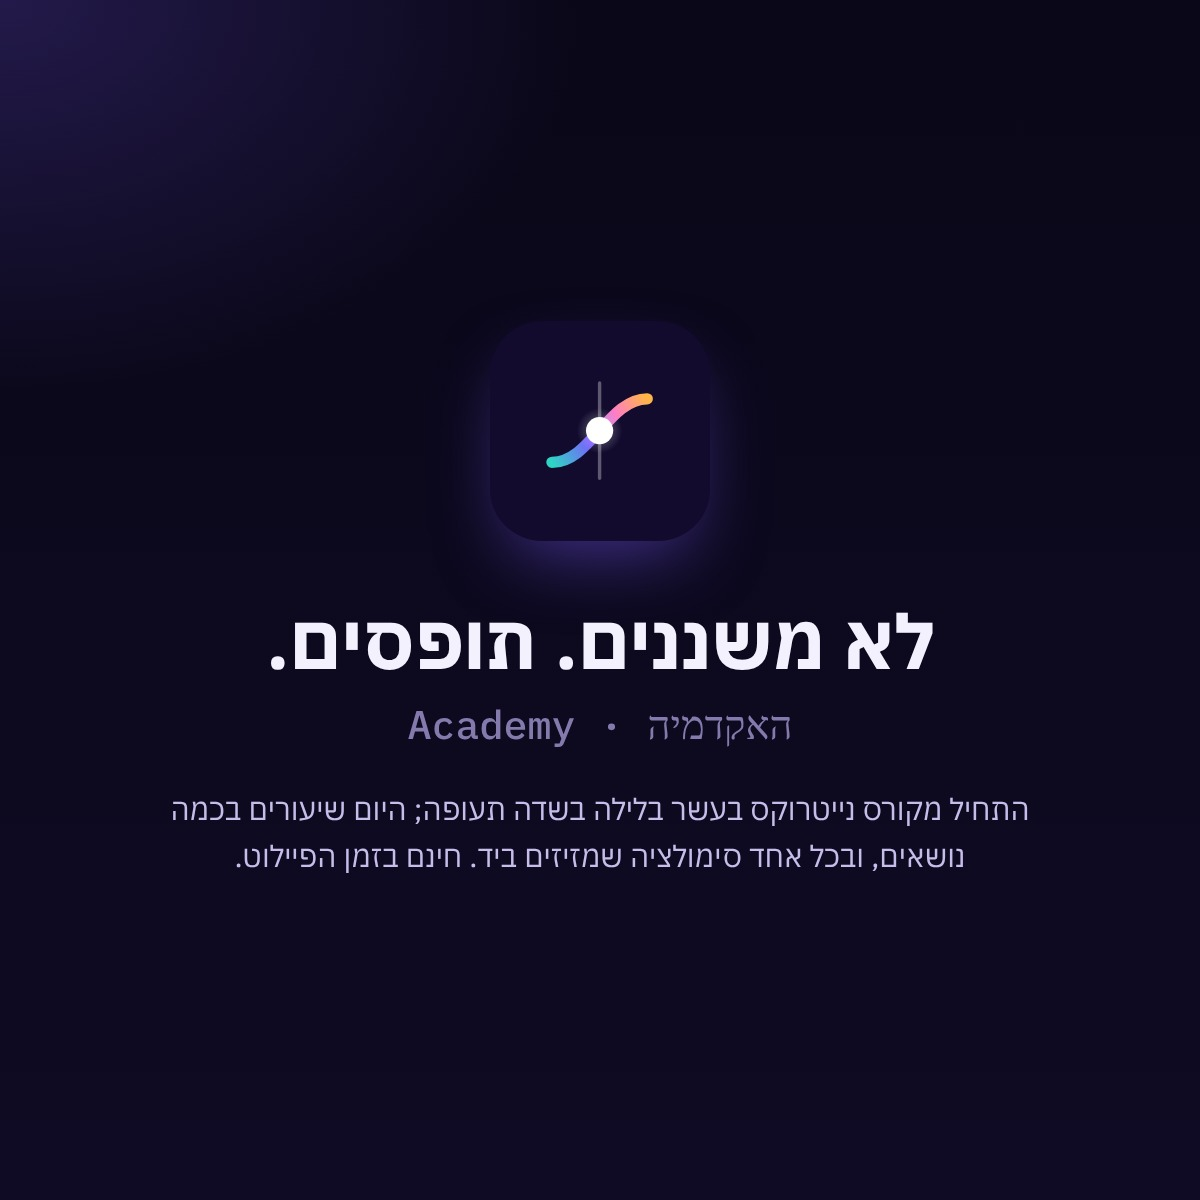
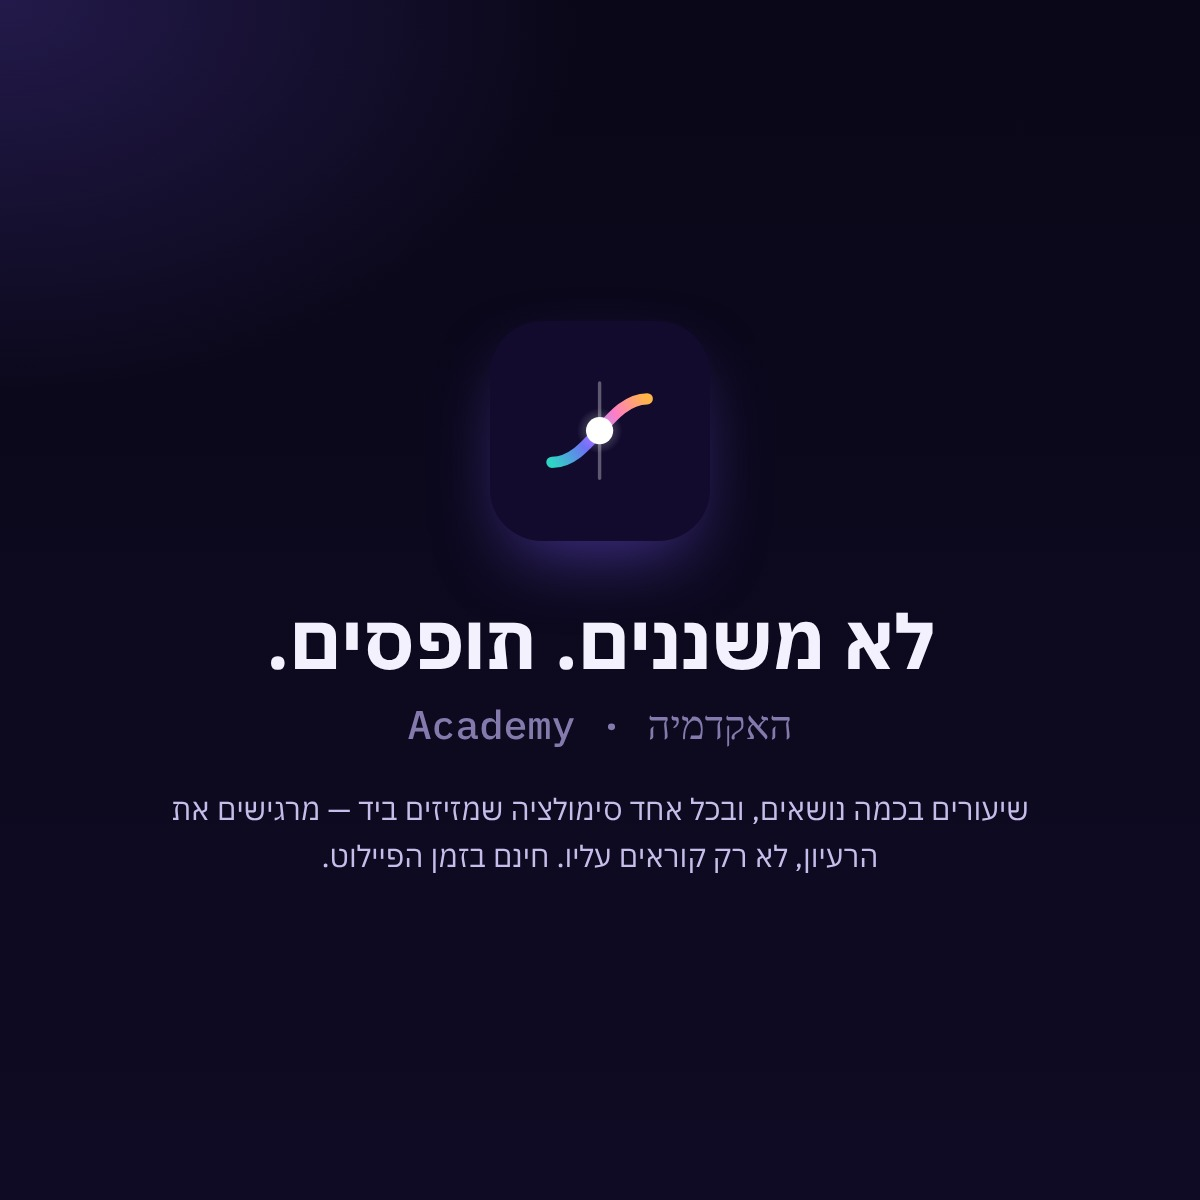
Hub: take Nitrox off the landing page; keep its direct link working
Removes Nitrox's tile, hero node/chip, demo tab and progress source from the hub and its link
from /academy/subjects/. apps/nitrox and docs/subjects/nitrox are untouched, so
/academy/subjects/nitrox/ opens exactly as before. Share cards regenerated with a neutral
tagline (the old one told the airport/Nitrox story). Docs updated so it isn't re-added.

Claude-Session: https://claude.ai/code/session_01GyScjhQCA87iaVCHvgx1dU

Changed region(s): [[0.1542, 0.6475, 0.8633, 0.74]]

diff --git a/docs/index.html b/docs/index.html
@@ -108,7 +108,6 @@
               <line id="hero-hairline" class="hairline" x1="40" y1="16" x2="40" y2="300"/>
               <path class="curve" d="M 40 256 C 230 256, 290 48, 480 48" stroke="url(#spectrumHero)"/>
 
-              <g class="node" data-subject="nitrox" style="color:#2fd4c6"><circle class="dot" fill="#2fd4c6"/></g>
               <g class="node" data-subject="math" style="color:#6250d6"><circle class="dot" fill="#6250d6"/></g>
               <g class="node" data-subject="physics" style="color:#3457d1"><circle class="dot" fill="#3457d1"/></g>
               <g class="node soon" data-subject="chemistry" style="color:var(--amber)"><circle class="dot" fill="var(--amber)"/></g>
@@ -119,7 +118,6 @@
               </g>
             </svg>
             <div class="hero-axis" id="hero-axis">
-              <button type="button" class="axis-chip" data-subject="nitrox"><span class="t-he">נייטרוקס</span><span class="t-en">Nitrox</span></button>
               <button type="button" class="axis-chip" data-subject="math"><span class="t-he">מתמטיקה</span><span class="t-en">Math</span></button>
               <button type="button" class="axis-chip" data-subject="physics"><span class="t-he">פיזיקה</span><span class="t-en">Physics</span></button>
               <button type="button" class="axis-chip soon" data-subject="chemistry"><span class="t-he">כימיה</span><span class="t-en">Chem</span></button>
@@ -152,48 +150,6 @@
         <span class="t-he">ממשיכים מאיפה שעצרתם</span><span class="t-en">Pick up where you left off</span>
       </p>
       <div class="tiles">
-
-        <a class="tile reveal" href="/academy/subjects/nitrox/" data-subject="nitrox">
-          <div class="tile-head">
-            <div class="tile-badge" aria-hidden="true">
-              <svg viewBox="0 0 24 24"><path d="M9 2h6v3H9zM8 5h8a2 2 0 0 1 2 2v12a3 3 0 0 1-3 3H9a3 3 0 0 1-3-3V7a2 2 0 0 1 2-2Zm0 5h8"/></svg>
-            </div>
-            <div class="tile-title">
-              <h3><span class="t-he">אקדמיית נייטרוקס</span><span class="t-en">Nitrox Academy</span></h3>
-              <span class="tile-status"><span class="dot"></span><span class="t-he">פעיל</span><span class="t-en">Live</span></span>
-            </div>
-          </div>
-          <p class="tile-promise">
-            <span class="t-he">כמה עמוק אפשר לרדת עם התערובת הזו? גוררים את העומק ורואים.</span>
-            <span class="t-en">How deep can this mix go? Drag the depth and see.</span>
-          </p>
-          <!-- pO₂ vs depth for EAN32 (FO₂ 0.32), 0–40 m, the same teaching approximation the live
-               demo uses (pO₂ = 0.32 × (1 + depth/10)): a straight line from 0.32 bar at 0 m to 1.60
-               bar at 40 m. Plot: x 16→304 = 0→40 m; y 64→8 = 0→1.6 bar (35 px per bar).
-               0.32 → y 52.8; 1.60 → y 8; the dashed limit at 1.4 bar → y 15. The 1.4 is
-               DEFAULT_PLANNING_PPO2 from apps/nitrox/src/science/limits.ts — no other number. -->
-          <svg class="tile-preview" viewBox="0 0 320 72" aria-hidden="true">
-            <text class="pv-mix" x="16" y="12">EAN32</text>
-            <polygon class="pv-fill" points="16,52.8 304,8 304,64 16,64"/>
-            <line class="pv-limit" x1="16" y1="15" x2="304" y2="15"/>
-            <text class="pv-label" x="304" y="12" text-anchor="end">1.4</text>
-            <path class="pv-curve" d="M16 52.8 L304 8"/>
-            <circle class="pv-dot" cx="160" cy="30.4" r="4.5"/>
-          </svg>
-          <div class="tile-foot">
-            <span class="tile-meta">
-              <svg class="tile-ring" viewBox="0 0 36 36" aria-hidden="true"><circle class="track" cx="18" cy="18" r="15.5"/><circle class="arc" cx="18" cy="18" r="15.5"/></svg>
-              <span class="meta-first"><span class="t-he">11 שיעורים · 2 פרקים</span><span class="t-en">11 lessons · 2 chapters</span></span>
-              <span class="meta-progress"><span class="t-he"></span><span class="t-en"></span></span>
-            </span>
-            <span class="tile-cta">
-              <span class="cta-start"><span class="t-he">להתחיל</span><span class="t-en">Start</span></span>
-              <span class="cta-continue"><span class="t-he">להמשיך</span><span class="t-en">Continue</span></span>
-              <span class="cta-review"><span class="t-he">לחזור</span><span class="t-en">Review</span></span>
-              <svg class="icon-dir" viewBox="0 0 24 24" aria-hidden="true"><path d="M5 12h14m-6-6 6 6-6 6"/></svg>
-            </span>
-          </div>
-        </a>
 
         <a class="tile reveal" href="/academy/subjects/math/" data-subject="math">
           <div class="tile-head">
@@ -294,15 +250,6 @@
     <section class="live" id="live">
       <h2 class="reveal"><span class="t-he">ככה נראה שיעור כאן</span><span class="t-en">This is what a lesson looks like here</span></h2>
       <div class="panel live-panel reveal">
-        <div class="tabs" role="tablist" aria-label="Live demo">
-          <button type="button" role="tab" data-tab="math" aria-controls="demo-math" aria-selected="true">
-            <span class="t-he">אינטגרל · מלבנים</span><span class="t-en">Integral · rectangles</span>
-          </button>
-          <button type="button" role="tab" data-tab="nitrox" aria-controls="demo-nitrox" aria-selected="false">
-            <span class="t-he">נייטרוקס · לחץ חלקי</span><span class="t-en">Nitrox · <span class="num">pO₂</span></span>
-          </button>
-        </div>
-
         <div class="demo-panel" id="demo-math" role="tabpanel">
           <div class="demo-grid">
             <svg id="riemann-svg" class="demo-svg" viewBox="0 0 480 240" role="img" aria-label="Riemann rectangles under x squared from 0 to 2" data-label-he="מלבני רימן מתחת לפונקציה x בריבוע, בין 0 ל-2" data-label-en="Riemann rectangles under x squared from 0 to 2">
@@ -332,37 +279,6 @@
           </div>
         </div>
 
-        <div class="demo-panel" id="demo-nitrox" role="tabpanel" hidden>
-          <div class="demo-grid">
-            <svg class="demo-svg" viewBox="0 0 480 120" role="img" aria-label="Oxygen partial pressure gauge for EAN32 by depth" data-label-he="מד לחץ חלקי של חמצן עבור EAN32 לפי עומק" data-label-en="Oxygen partial pressure gauge for EAN32 by depth">
-              <text x="0" y="20" class="mono" fill="var(--muted)" font-size="12">EAN32</text>
-              <rect x="0" y="40" width="400" height="20" rx="10" fill="var(--line-strong)"/>
-              <rect id="nitrox-fill" x="0" y="40" width="0" height="20" rx="10" fill="var(--teal)"/>
-              <line x1="350" y1="30" x2="350" y2="70" stroke="var(--warn)" stroke-width="2"/>
-              <text x="350" y="86" class="mono" fill="var(--warn)" font-size="11" text-anchor="middle">1.4</text>
-            </svg>
-            <div class="demo-controls">
-              <input type="range" id="nitrox-depth" min="0" max="40" step="1" value="18" aria-label="depth">
-              <div class="demo-readouts">
-                <div class="demo-readout-row">
-                  <span class="label"><span class="t-he">עומק</span><span class="t-en">depth</span></span>
-                  <span class="value mono num" id="nitrox-depth-readout">18 m</span>
-                </div>
-                <div class="demo-readout-row">
-                  <span class="label"><span class="t-he">לחץ חלקי של חמצן</span><span class="t-en">oxygen partial pressure</span></span>
-                  <span class="value mono num" id="nitrox-po2-readout">0.90 bar</span>
-                </div>
-              </div>
-              <p class="demo-warn-note" id="nitrox-warn-note">
-                <span class="t-he">מעל גבול התכנון (1.4)</span><span class="t-en">past the planning limit (1.4)</span>
-              </p>
-              <a class="open-lesson" href="/academy/subjects/nitrox/">
-                <span class="t-he">לשיעור המלא</span><span class="t-en">Open the full lesson</span>
-                <svg class="icon-dir" viewBox="0 0 24 24" aria-hidden="true"><path d="M5 12h14m-6-6 6 6-6 6"/></svg>
-              </a>
-            </div>
-          </div>
-        </div>
       </div>
     </section>
 

diff --git a/docs/hub/hub.js b/docs/hub/hub.js
@@ -66,10 +66,9 @@
     // Subjects sit on the curve at a target x (SVG units) rather than an arc-length fraction,
     // so their axis chips are evenly spaced and never collide at phone width.
     var SUBJECTS = [
-      { key: 'nitrox', x: 74, live: true, url: '/academy/subjects/nitrox/', nameHe: 'נייטרוקס', nameEn: 'NITROX', statusHe: 'פעיל', statusEn: 'LIVE' },
-      { key: 'math', x: 200, live: true, url: '/academy/subjects/math/', nameHe: 'מתמטיקה', nameEn: 'MATH', statusHe: 'פיילוט', statusEn: 'PILOT' },
-      { key: 'physics', x: 322, live: true, url: '/academy/subjects/physics/', nameHe: 'פיזיקה', nameEn: 'PHYSICS', statusHe: 'פיילוט', statusEn: 'PILOT' },
-      { key: 'chemistry', x: 446, live: false, url: null, nameHe: 'כימיה', nameEn: 'CHEM', statusHe: 'בקרוב', statusEn: 'SOON' },
+      { key: 'math', x: 120, live: true, url: '/academy/subjects/math/', nameHe: 'מתמטיקה', nameEn: 'MATH', statusHe: 'פיילוט', statusEn: 'PILOT' },
+      { key: 'physics', x: 270, live: true, url: '/academy/subjects/physics/', nameHe: 'פיזיקה', nameEn: 'PHYSICS', statusHe: 'פיילוט', statusEn: 'PILOT' },
+      { key: 'chemistry', x: 420, live: false, url: null, nameHe: 'כימיה', nameEn: 'CHEM', statusHe: 'בקרוב', statusEn: 'SOON' },
     ];
 
     var totalLength = curvePath.getTotalLength();
@@ -343,39 +342,6 @@
     slider.addEventListener('input', function () { render(parseInt(slider.value, 10)); });
   }
 
-  // ---------- Nitrox demo: pO2 vs depth for EAN32 ----------
-  function nitroxDemo() {
-    var slider = document.getElementById('nitrox-depth');
-    if (!slider) return;
-    var fill = document.getElementById('nitrox-fill');
-    var depthReadout = document.getElementById('nitrox-depth-readout');
-    var po2Readout = document.getElementById('nitrox-po2-readout');
-    var warnNote = document.getElementById('nitrox-warn-note');
-
-    var FO2 = 0.32;
-    // Recreational planning limit, sourced from apps/nitrox/src/science/limits.ts
-    // (DEFAULT_PLANNING_PPO2 = 1.4). Do not add any other limit/MOD number here.
-    var PLANNING_PPO2 = 1.4;
-    var GAUGE_MAX = 1.6;
-    var barW = 400; // matches the gauge track's SVG width, see markup
-
-    function po2(depth) { return FO2 * (1 + depth / 10); }
-
-    function render(depth) {
-      var p = po2(depth);
-      var w = Math.min(1, p / GAUGE_MAX) * barW;
-      fill.setAttribute('width', w);
-      depthReadout.textContent = depth + ' m';
-      po2Readout.textContent = p.toFixed(2) + ' bar';
-      var over = p > PLANNING_PPO2;
-      po2Readout.classList.toggle('warn', over);
-      warnNote.classList.toggle('show', over);
-    }
-
-    render(parseInt(slider.value, 10));
-    slider.addEventListener('input', function () { render(parseInt(slider.value, 10)); });
-  }
-
   // ---------- reveal on scroll + method strip + hero spotlight ----------
   function reveal() {
     var reduced = window.matchMedia && window.matchMedia('(prefers-reduced-motion: reduce)').matches;
@@ -435,9 +401,6 @@
     var ID_RE = /^[a-z0-9][a-z0-9-]{0,63}$/;   // lesson/chapter ids are kebab-case; anything else is rejected
     // `total` must equal the real lesson count (see §11.5 notes) — same numbers as the tiles' meta-first text.
     var SOURCES = {
-      nitrox:  { key: 'nitrox-academy:v1',  total: 11, home: '/academy/subjects/nitrox/',
-                 lessonUrl: function (lv) { return '/academy/subjects/nitrox/#/learn/' + lv.chapterId + '/' + lv.lessonId; },
-                 lastVisited: function (v) { return v && typeof v === 'object' && ID_RE.test(v.chapterId) && ID_RE.test(v.lessonId) ? { chapterId: v.chapterId, lessonId: v.lessonId } : null; } },
       math:    { key: 'academy-math:v1',    total: 6,  home: '/academy/subjects/math/',
                  lessonUrl: function (id) { return '/academy/subjects/math/#/lesson/' + id; },
                  lastVisited: function (v) { return typeof v === 'string' && ID_RE.test(v) ? v : null; } },
@@ -631,7 +594,6 @@
     tabs();
     heroHandle();
     riemannDemo();
-    nitroxDemo();
     reveal();
     tileProgress();
     feedbackWidget();

diff --git a/docs/hub/hub.css b/docs/hub/hub.css
@@ -352,11 +352,9 @@ footer.hub-footer a svg { width: 12px; height: 12px; stroke: currentColor; fill:
 /* Per-subject colour: --c1/--c2 = the app's own favicon gradient; --ct = a text-safe
    variant that passes 4.5:1 on the tile's tinted surface in that theme. Never use --c2 or
    --muted as text on a tile. */
-.tile[data-subject="nitrox"]    { --c1: #0e9f94; --c2: #2fd4c6; --ct: #0a6f67; }  /* 5.5:1 on light tint */
 .tile[data-subject="math"]      { --c1: #6250d6; --c2: #e87ba4; --ct: #5542c4; }  /* 6.3:1 */
 .tile[data-subject="physics"]   { --c1: #3457d1; --c2: #17a3e8; --ct: #2b4bbd; }  /* 6.6:1 */
 .tile[data-subject="chemistry"] { --c1: var(--amber); --c2: var(--amber); --ct: var(--ink-2); }
-:root[data-theme="dark"] .tile[data-subject="nitrox"]  { --ct: #2fd4c6; }  /* 8.2:1 on dark tint */
 :root[data-theme="dark"] .tile[data-subject="math"]    { --ct: #a99df0; }  /* 6.6:1 */
 :root[data-theme="dark"] .tile[data-subject="physics"] { --ct: #7fa6ff; }  /* 6.7:1 */
 
@@ -371,7 +369,6 @@ section.subjects { margin-block: 26px 56px; }
 
 .tiles { display: grid; grid-template-columns: minmax(0, 1fr); gap: 14px; }
 @media (min-width: 640px) { .tiles { grid-template-columns: repeat(2, minmax(0, 1fr)); gap: 16px; } }
-@media (min-width: 900px) { .tiles { grid-template-columns: repeat(3, minmax(0, 1fr)); } }
 
 .tile {
   position: relative; display: flex; flex-direction: column; gap: 10px; min-width: 0;
@@ -389,12 +386,12 @@ section.subjects { margin-block: 26px 56px; }
   .tile:hover { transform: translateY(-2px); border-color: var(--c2);
     box-shadow: inset 0 1px 0 var(--panel-edge), var(--shadow), 0 0 32px -10px color-mix(in srgb, var(--c2) 70%, transparent); }
   .tile:hover .tile-cta { background: color-mix(in srgb, var(--ct) 88%, black); }
-  /* Nitrox and Math: the dot slides along the curve. Physics: the tangent draws in instead
+  /* Math: the dot slides along the curve. Physics: the tangent draws in instead
      (its tangent is computed for the midpoint, so its dot must stay put). */
-  .tile[data-subject="nitrox"]:hover .pv-dot, .tile[data-subject="math"]:hover .pv-dot { offset-distance: 78%; }
+  .tile[data-subject="math"]:hover .pv-dot { offset-distance: 78%; }
   .tile[data-subject="physics"]:hover .pv-tangent { stroke-dashoffset: 0; }
 }
-.tile[data-subject="nitrox"]:focus-visible .pv-dot, .tile[data-subject="math"]:focus-visible .pv-dot { offset-distance: 78%; }
+.tile[data-subject="math"]:focus-visible .pv-dot { offset-distance: 78%; }
 .tile[data-subject="physics"]:focus-visible .pv-tangent { stroke-dashoffset: 0; }
 
 .tile-head { display: flex; align-items: center; gap: 12px; }
@@ -426,7 +423,6 @@ section.subjects { margin-block: 26px 56px; }
    logo, §1.5); without support it stays at its static cx/cy on the curve. */
 @supports (offset-path: path('M0 0 L1 1')) {
   .tile-preview .pv-dot { cx: 0; cy: 0; offset-distance: 50%; offset-rotate: 0deg; transition: offset-distance 320ms var(--ease); }
-  .tile[data-subject="nitrox"]  .pv-dot { offset-path: path('M16 52.8 L304 8'); }
   .tile[data-subject="math"]    .pv-dot { offset-path: path('M16 64 Q 160 64 304 8'); }
   .tile[data-subject="physics"] .pv-dot { offset-path: path('M16 60 C 120 60, 200 12, 304 12'); }
 }

diff --git a/docs/subjects/index.html b/docs/subjects/index.html
@@ -21,7 +21,6 @@
     <p>מעבירים אותך לרשימת הנושאים… · Taking you to the subjects…</p>
     <ul>
       <li><a href="/academy/#subjects">כל הנושאים · All subjects</a></li>
-      <li><a href="/academy/subjects/nitrox/">אקדמיית נייטרוקס · Nitrox Academy</a></li>
       <li><a href="/academy/subjects/math/">אקדמיית המתמטיקה · Math Academy</a></li>
       <li><a href="/academy/subjects/physics/">אקדמיית הפיזיקה · Physics Academy</a></li>
     </ul>

diff --git a/CLAUDE.md b/CLAUDE.md
@@ -39,10 +39,19 @@ overclaim.
 
 | Subject | Path | What it is |
 |---|---|---|
-| **Nitrox Academy** | `apps/nitrox` | Enriched-air diving theory. The original, most mature app (migrated in from its own repo): chapters, assessment engine, mastery/spaced review, achievements, installable PWA with offline support. Has its own conventions — **read `apps/nitrox/CLAUDE.md`**. The UX reference for everything else. 11 lessons (5 + 6 across two chapters; the roadmap is excluded from the count). |
+| **Nitrox Academy** | `apps/nitrox` | Enriched-air diving theory. The original, most mature app (migrated in from its own repo): chapters, assessment engine, mastery/spaced review, achievements, installable PWA with offline support. Has its own conventions — **read `apps/nitrox/CLAUDE.md`**. The UX reference for everything else. 11 lessons (5 + 6 across two chapters; the roadmap is excluded from the count). **Unlisted:** live at `/academy/subjects/nitrox/` for anyone with the link, but deliberately *not* shown anywhere on the hub or linked from other subjects (see below). |
 | **Math Academy** | `apps/math` | Two topics, 6 lessons: **Derivatives** (rate of change, derivative rules, extremum points; grade י, 5-unit) and **Integrals** (area under a curve, Riemann sums, antiderivative; grade י"א, 5-unit). Topic content follows the official Ministry 5-unit curriculum PDF. Treat Math as the template for a *new* subject. |
 | **Physics Academy** | `apps/physics` | Kinematics, 3 lessons (position vs time, velocity as slope, acceleration as area). Scaffolded from Math. Its feedback form still needs a real Web3Forms key (see "Open items"). |
 | Chemistry | — | Placeholder tile on the hub only ("coming soon", not clickable). No app. |
+
+**Nitrox is unlisted, on purpose (Guy's decision).** It is unrelated to the school-subject
+academies (Math, Physics, ...), so the hub — tiles, hero handle, demo, `/academy/subjects/`
+page, share cards — does not mention it, and Math/Physics never link to it. But its URL is a
+public, shared link and **must keep working exactly as it does today**: never delete or move
+`apps/nitrox` or `docs/subjects/nitrox/`, never change its `base`, and don't add it back to the
+hub (or to any cross-subject navigation) unless Guy asks. (Unlisted ≠ hidden from the internet:
+the page is still public and crawlable; if that's ever wanted, that's a separate `noindex` change
+inside the Nitrox app.)
 
 Nitrox is the reference for what a subject looks like once it's grown large — not something to
 imitate on day one. Math/Physics adopt Nitrox's *personal, progress-aware feel* (below), not its
@@ -235,7 +244,7 @@ Layout, top to bottom: top bar → **hero** (the brand line "לא משננים. 
 Grab it.", a draggable handle on a spectrum curve that scrubs between subjects, one-sentence lede)
 → **subject tiles** directly under it (one tinted, progress-aware tile per subject: badge,
 promise, honest inline-SVG preview, real lesson count, Start/Continue/Review pill + ring; a
-muted, non-clickable Chemistry strip) → **live demo** (Riemann rectangles / Nitrox pO₂ vs depth)
+muted, non-clickable Chemistry strip) → **live demo** (Riemann rectangles — Math's own integral)
 → **"why not memorize" method strip** → footer. A floating feedback pill sits start-side.
 
 The tiles read the apps' IndexedDB records **read-only** (see the progress system above) and
@@ -269,9 +278,10 @@ saturated badge, and use a per-subject text-safe colour for status, ring and pil
   background wash). A subject's `--c1/--c2` (favicon gradient) and `--ct` (text-safe, per theme)
   are declared on its `.tile[data-subject]` selector, never promoted to `:root`; on a tile, text
   is `--ink`/`--ink-2`/`--ct` only — never `--c2`, never `--muted` (both fail 4.5:1 on tints).
-- **Never invent a number for a live demo.** A demo-displayed constant (e.g. Nitrox's 1.4 pO₂
-  limit) is read from and cited to the subject's own source of truth
-  (`apps/nitrox/src/science/limits.ts`'s `DEFAULT_PLANNING_PPO2`), never hardcoded.
+- **Never invent a number for a live demo.** A demo-displayed constant is read from and cited to
+  the subject's own source of truth (a constant in its own code or content), never retyped or
+  guessed. (This is how the hub's former Nitrox demo cited `DEFAULT_PLANNING_PPO2`; the same
+  applies to any demo you add.)
 
 ## How to add a lesson or topic to an existing subject
 
@@ -396,7 +406,8 @@ layout bug. Don't commit temp scripts.
 
 - **Live on `main`:** the hub with the inviting-landing restructure (tiles under the hero,
   progress-aware, tinted; live demo and method strip below; `/academy/subjects/` redirect page);
-  Nitrox Academy (mature); Math Academy (Derivatives + Integrals, 6 lessons, topic-grouped
+  Nitrox Academy (mature; **unlisted** — reachable by its direct link only, removed from the hub);
+  Math Academy (Derivatives + Integrals, 6 lessons, topic-grouped
   dashboard home with progress, accuracy, achievements); Physics Academy (kinematics, 3 lessons,
   same dashboard); the "Bench" skin on both.
 - **Open items:**
@@ -408,9 +419,8 @@ layout bug. Don't commit temp scripts.
   - Math's "next lesson" follows global topic order (Derivatives before Integrals), so finishing
     an Integrals lesson can point back to Derivatives — intentional (matches curriculum order),
     revisit if it feels wrong.
-  - Known visual nits on the hub tiles: the Nitrox preview's "1.4" label is crossed by the curve
-    end; on a phone the tile stack is about three screens tall; the hub's top bar and hero are
-    still plainer than the tinted tiles below.
+  - Known visual nits on the hub: the hub's top bar and hero are still plainer than the tinted
+    tiles below; with only two subjects the tiles are a 2-column row plus the Chemistry strip.
   - `apps/math/README.md` / `apps/physics/README.md` "Status" sections and `README.md` are older
     than this file and may lag (e.g. Math's README still describes the integral-only pilot and an
     old `docs/math` build path) — this file wins; fix them when you touch those apps.

diff --git a/HUB_LLD.md b/HUB_LLD.md
@@ -901,7 +901,15 @@ For the tiles restructure, run §11.9 as well — it supersedes the subject-card
 
 ---
 
-## 11. Revision — "Inviting landing": restructure around subject tiles (spec, not yet built)
+> **Later amendment (Nitrox unlisted).** Nitrox Academy was removed from the hub at Guy's request
+> (it's unrelated to the school-subject academies): no tile, hero node/axis chip, demo tab or
+> `SOURCES` entry, no link on `/academy/subjects/`, and the share cards no longer mention it.
+> Its URL stays live. Wherever this section describes a Nitrox tile, node, chip, pO₂ demo or
+> `nitrox-academy:v1` read, that part is **superseded**: the hub has two subject tiles (Math,
+> Physics) + the Chemistry strip, a single Riemann demo (no tab row), tiles in a 2-column grid
+> from 640 px, and hero positions Math x=120, Physics x=270, Chemistry x=420.
+
+## 11. Revision — "Inviting landing": restructure around subject tiles (spec, implemented)
 
 Scope: `docs/index.html`, `docs/hub/hub.css`, `docs/hub/hub.js` only. Nothing under `apps/`
 or `docs/subjects/` changes. No new network dependency, no framework, no raster image; every
